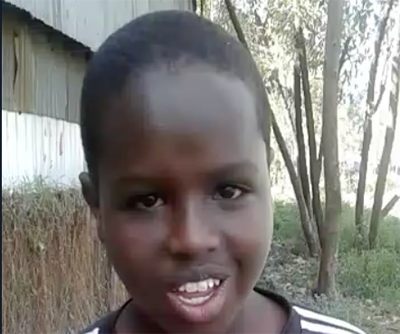
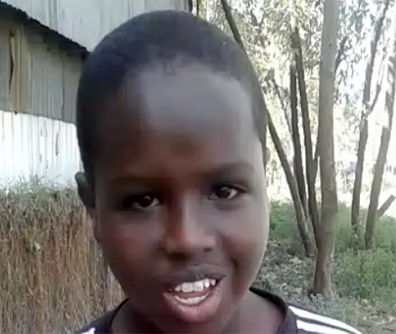
messed with meet our team

diff --git a/styles/styles.css b/styles/styles.css
@@ -94,9 +94,13 @@ body .meetOurTeamContainer .profile {
   padding: 4%;
 }
 body .meetOurTeamContainer .profile img {
-  max-width: 100%;
-  border-radius: 3px;
-  box-shadow: 2px 2px 8px rgba(59, 54, 54, 0.84);
+  max-width: 80%;
+  border-radius: 360px;
+  box-shadow: 1px 1px 8px rgba(59, 54, 54, 0.74);
+}
+body .meetOurTeamContainer .profile p {
+  letter-spacing: 1px;
+  line-height: 20px;
 }
 body .profileContainer #mainArea {
   margin: 8% 0;
@@ -273,4 +277,9 @@ body .footerContainer .bottomRow {
 body .footerContainer footer {
   text-align: center;
   margin-bottom: 15px;
+}
+@media screen and (max-width: 990px) {
+  .profile h1 {
+    margin: 8% 20%;
+  }
 }

diff --git a/styles/styles.less b/styles/styles.less
@@ -124,15 +124,17 @@ body {
 	}
 
 	.meetOurTeamContainer {
-
 		.profile {
 			padding: 4%;
 			img {
-			max-width: 100%;
-			border-radius: 3px;
-			box-shadow: 2px 2px 8px rgba(59, 54, 54, 0.84);
+				max-width: 80%;
+				border-radius: 360px;
+				box-shadow: 1px 1px 8px rgba(59, 54, 54, 0.74);
 			}
-
+			p {
+				letter-spacing: 1px;
+				line-height: 20px;
+			}
 		}
 
 	}
@@ -335,5 +337,14 @@ body {
 	}
 
 
+
+}
+
+@media screen and (max-width: 990px) {
+	.profile {
+		h1 {
+			margin: 8% 20%;
+		}
+	}
 
 }

diff --git a/MeetOurTeam.html b/MeetOurTeam.html
@@ -28,8 +28,8 @@
 	</div>
 
 
-	<div class="container-fluid meetOurTeamContainer text-center">
-		<div class="row" style="margin-top: 5%;">
+	<div class="container meetOurTeamContainer text-center">
+		<div class="row" style="margin-top: 6%;">
 			<div class="col-md-4 col-sm-6 profile">
 				<img src="styles/images/stephen.jpg">
 				<h1>Stephen Fleischer</h1>
